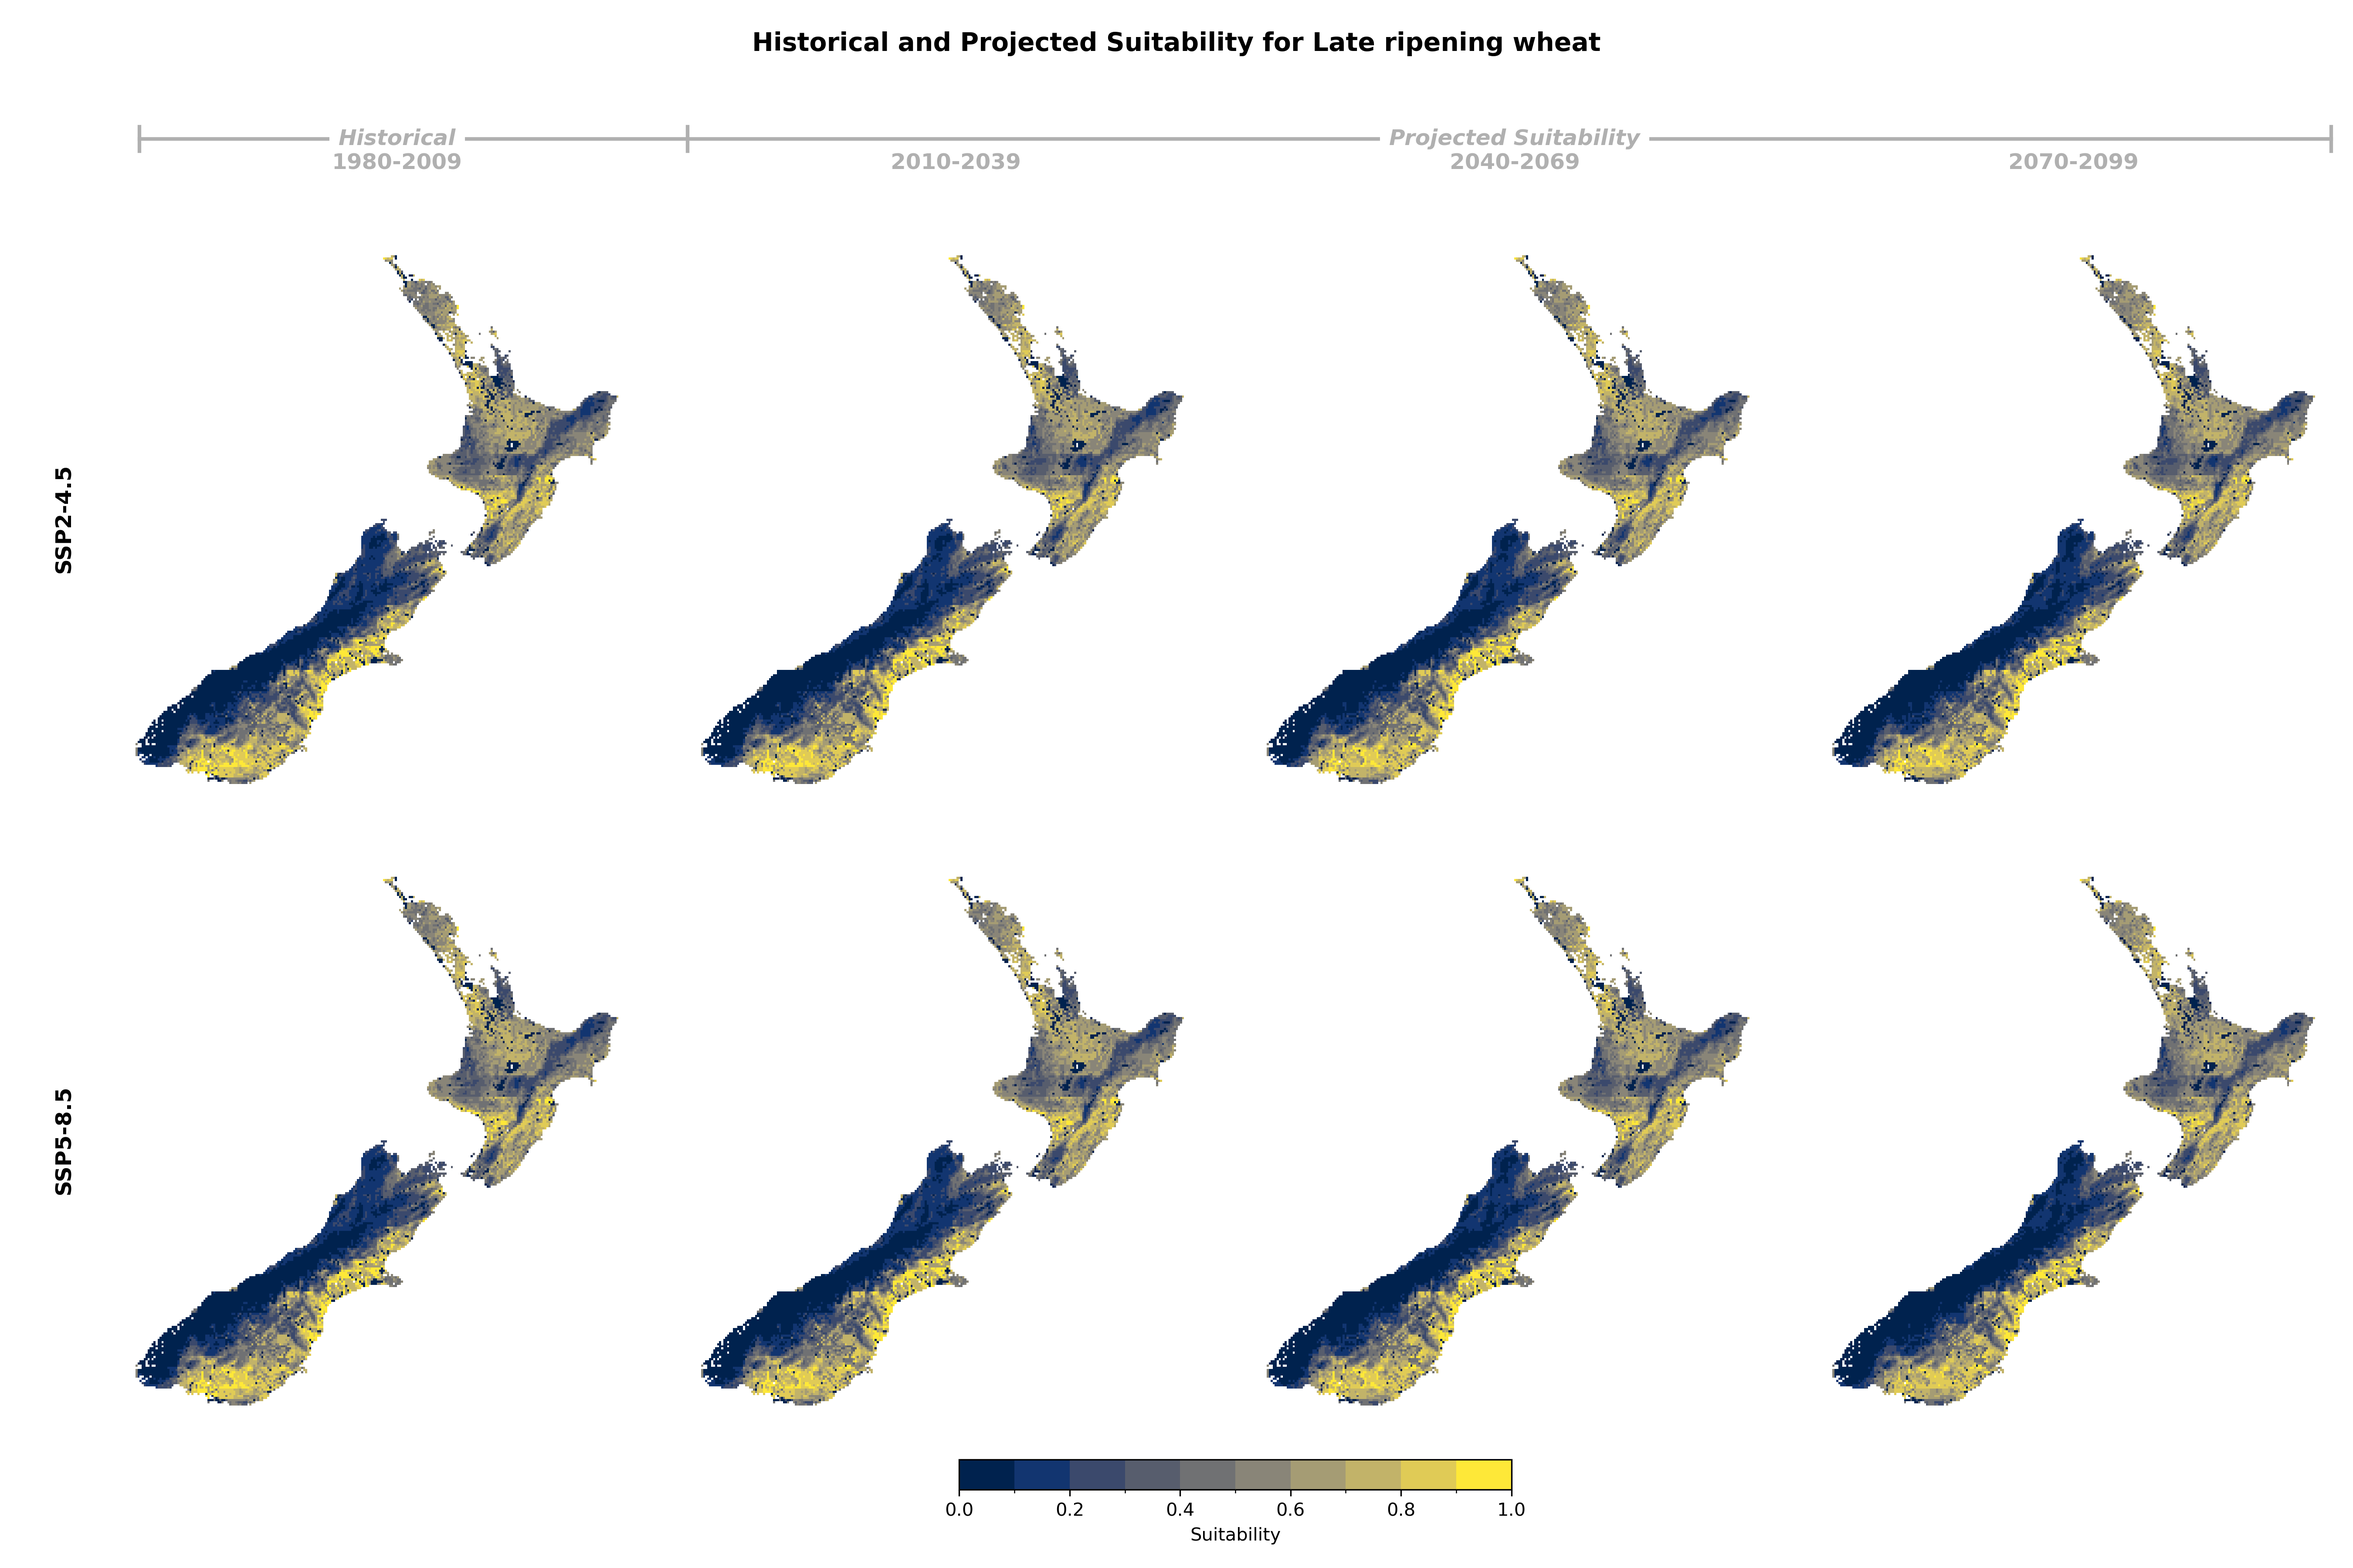
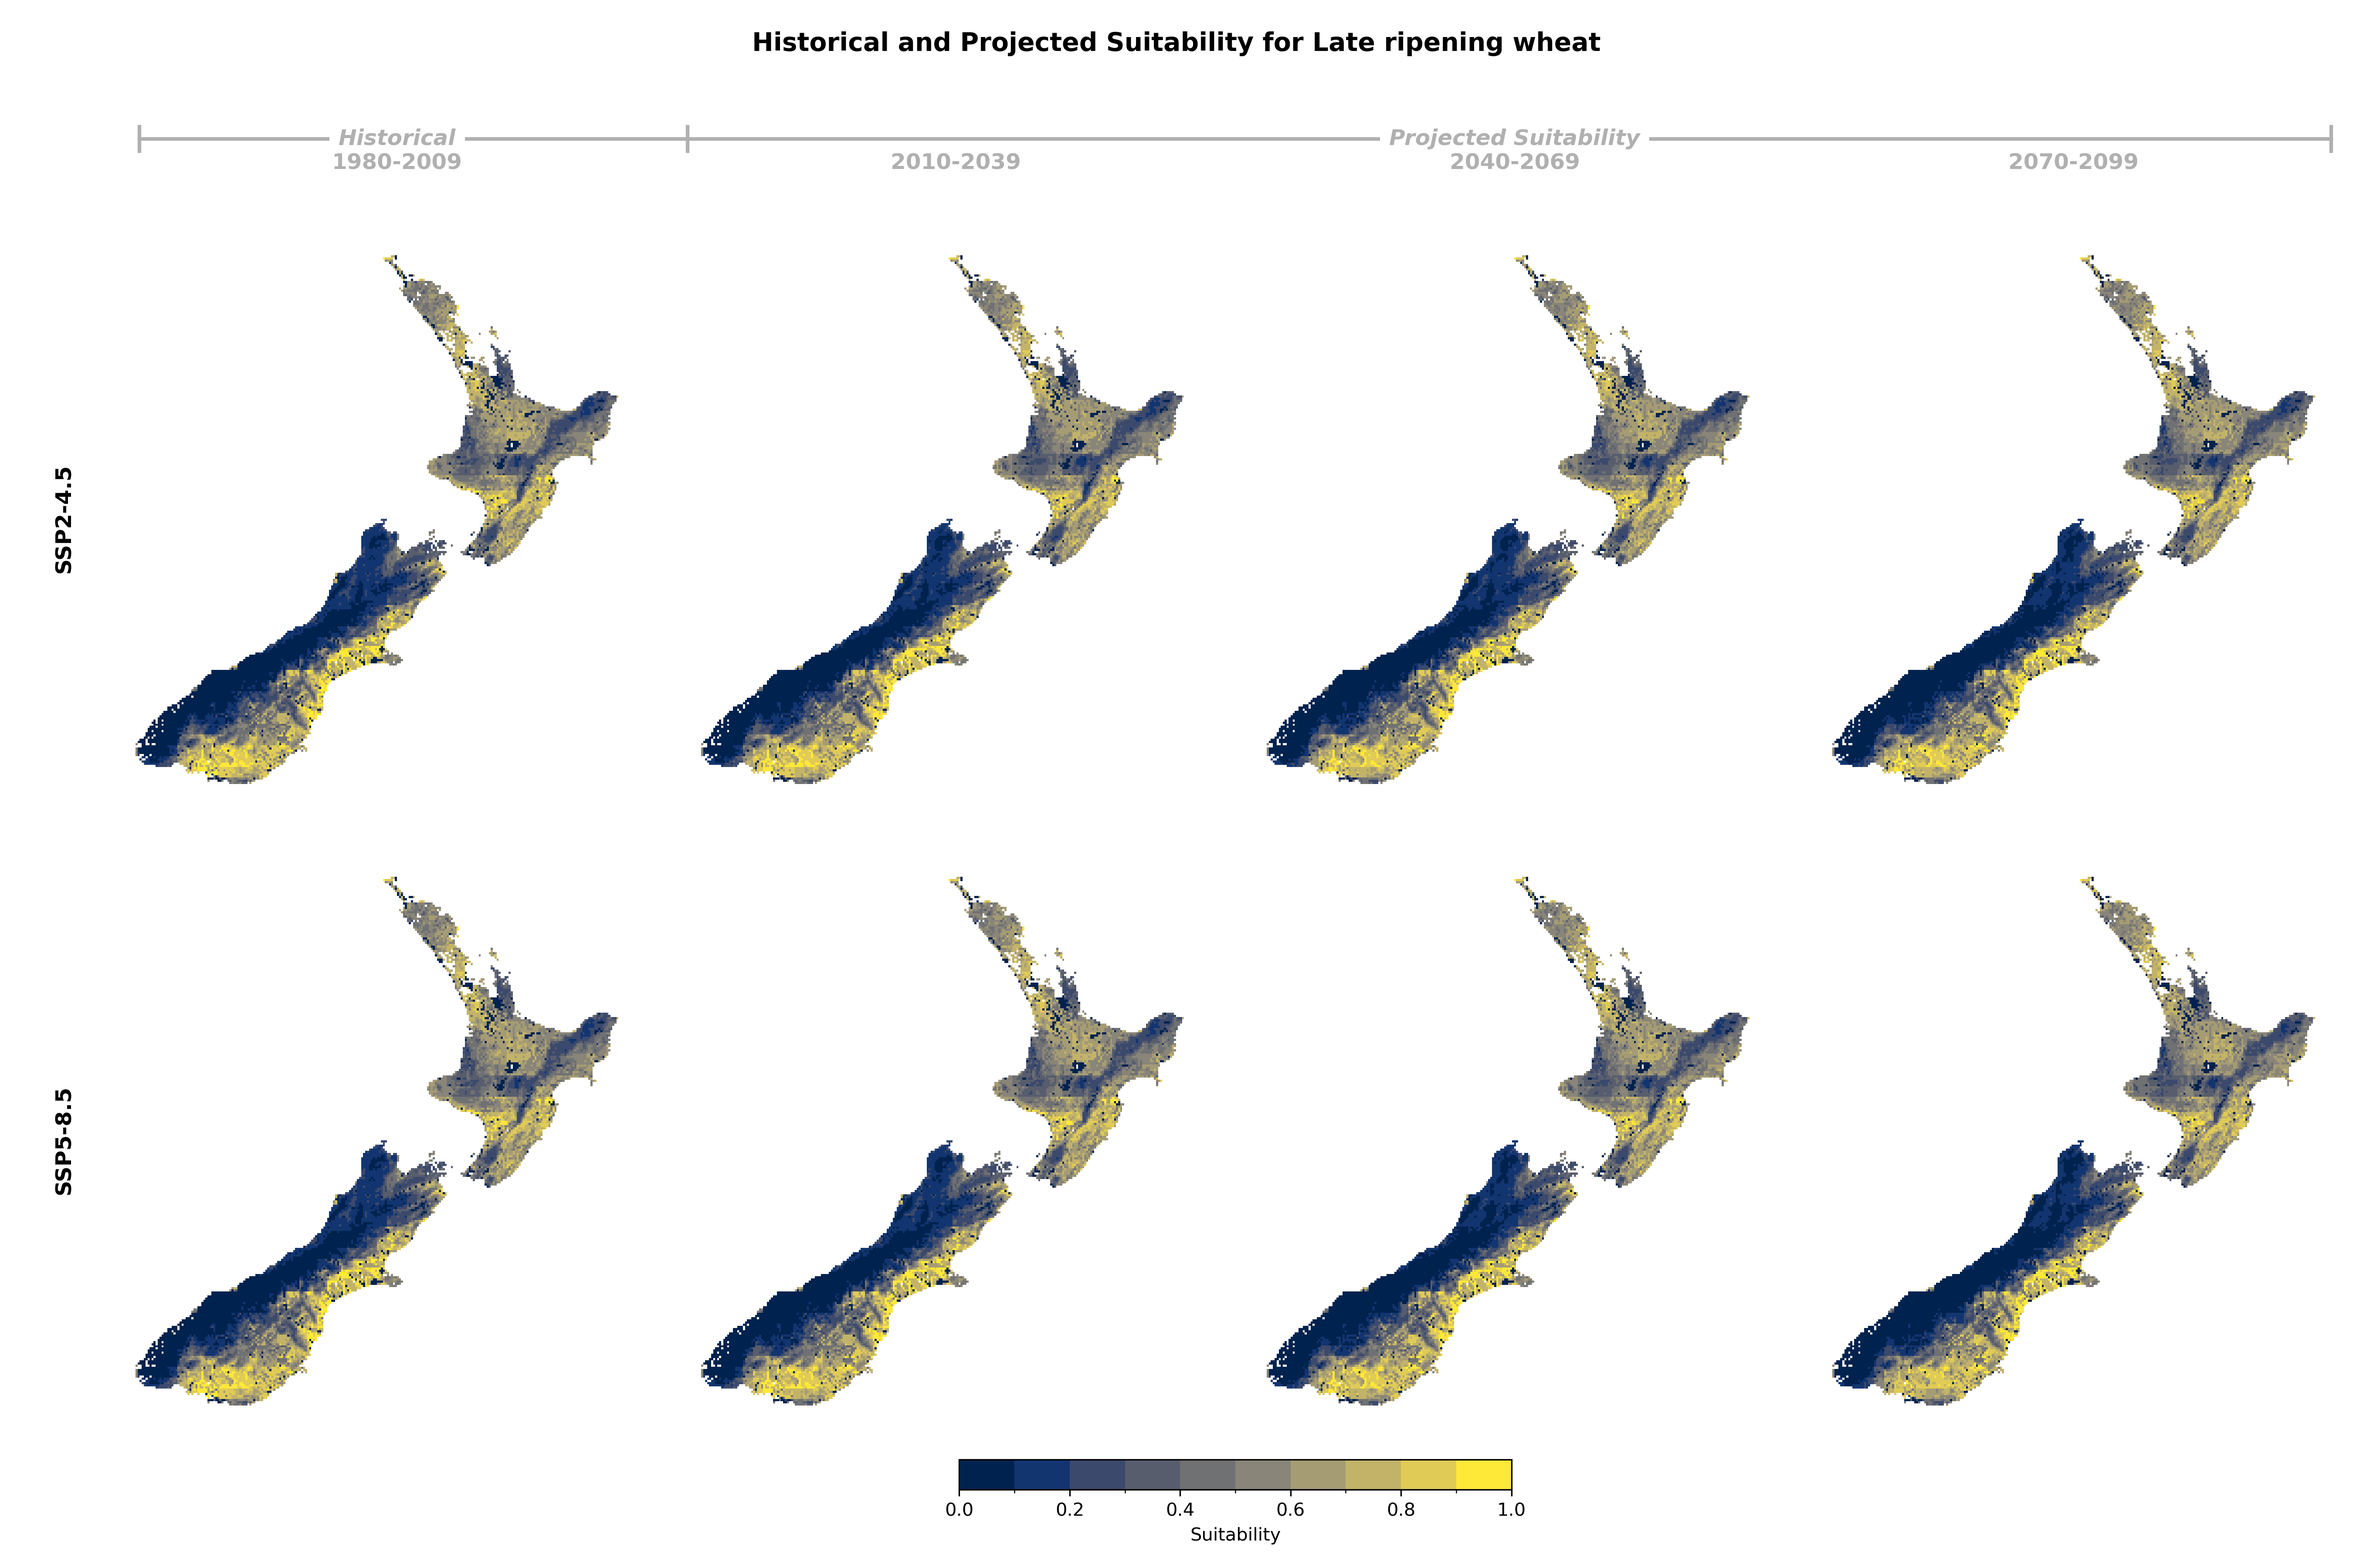
Add Late wheat 1km suitability

diff --git a/docs/landuses/wheatlate.md b/docs/landuses/wheatlate.md
@@ -8,11 +8,11 @@ title: Late ripening wheat
 
 ### Suitability Values
 
-![](../_static/summary_figs/wheatlate_suitability_SSP245-SSP585_5km_v1.0.png)
+![](../_static/summary_figs/wheatlate_suitability_SSP245-SSP585_1km_v1.0.png)
 
 ### Suitability Changes
 
-![](../_static/summary_figs/wheatlate_suitability_change_SSP245-SSP585_5km_v1.0.png)
+![](../_static/summary_figs/wheatlate_suitability_change_SSP245-SSP585_1km_v1.0.png)
 
 :::
 
